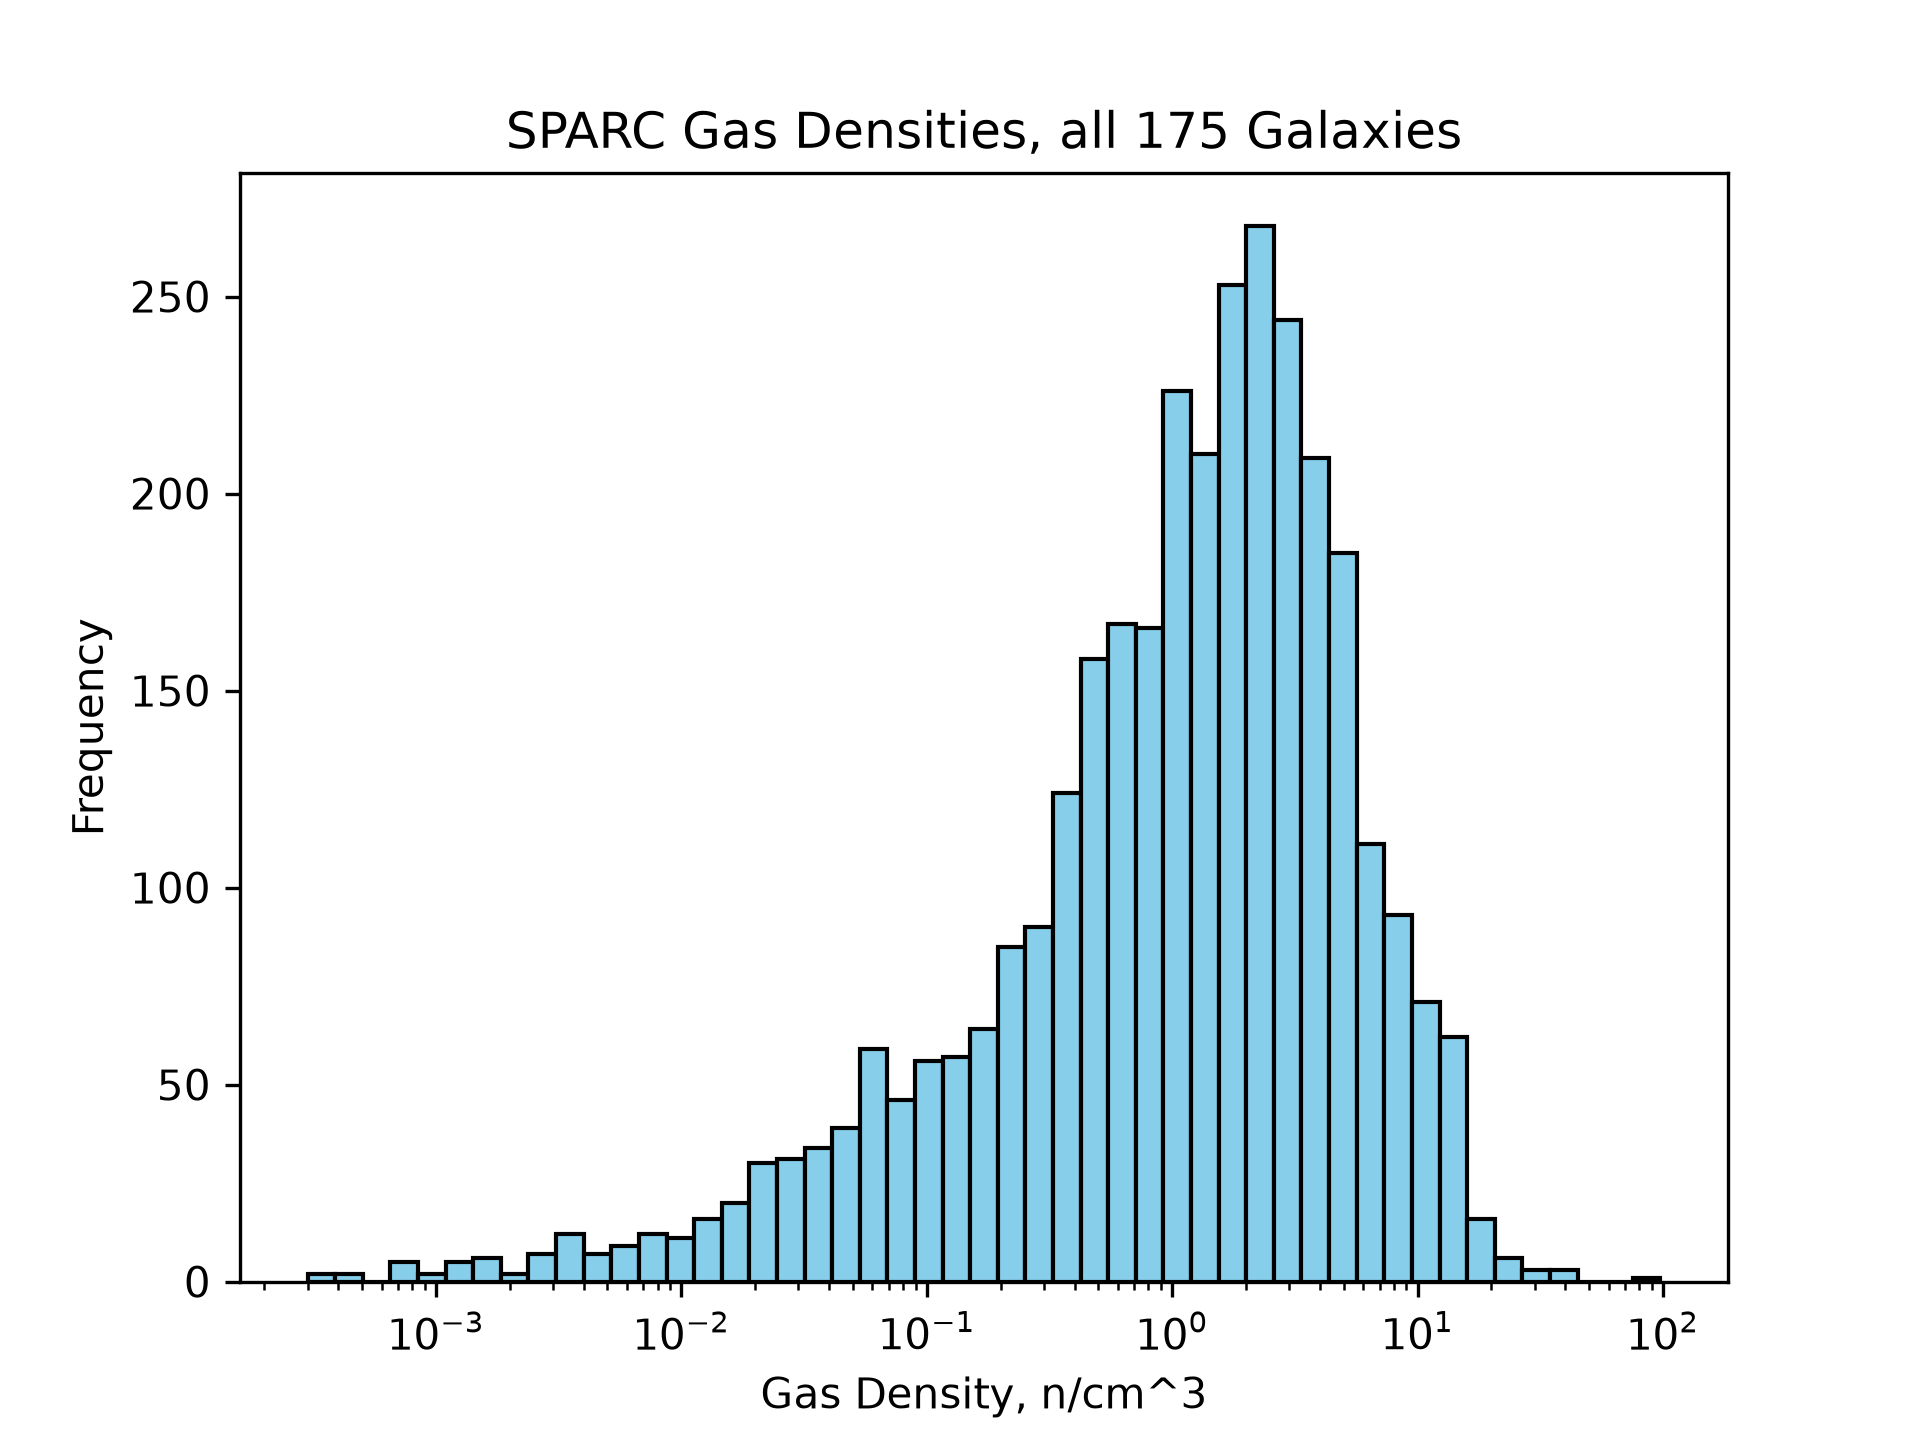
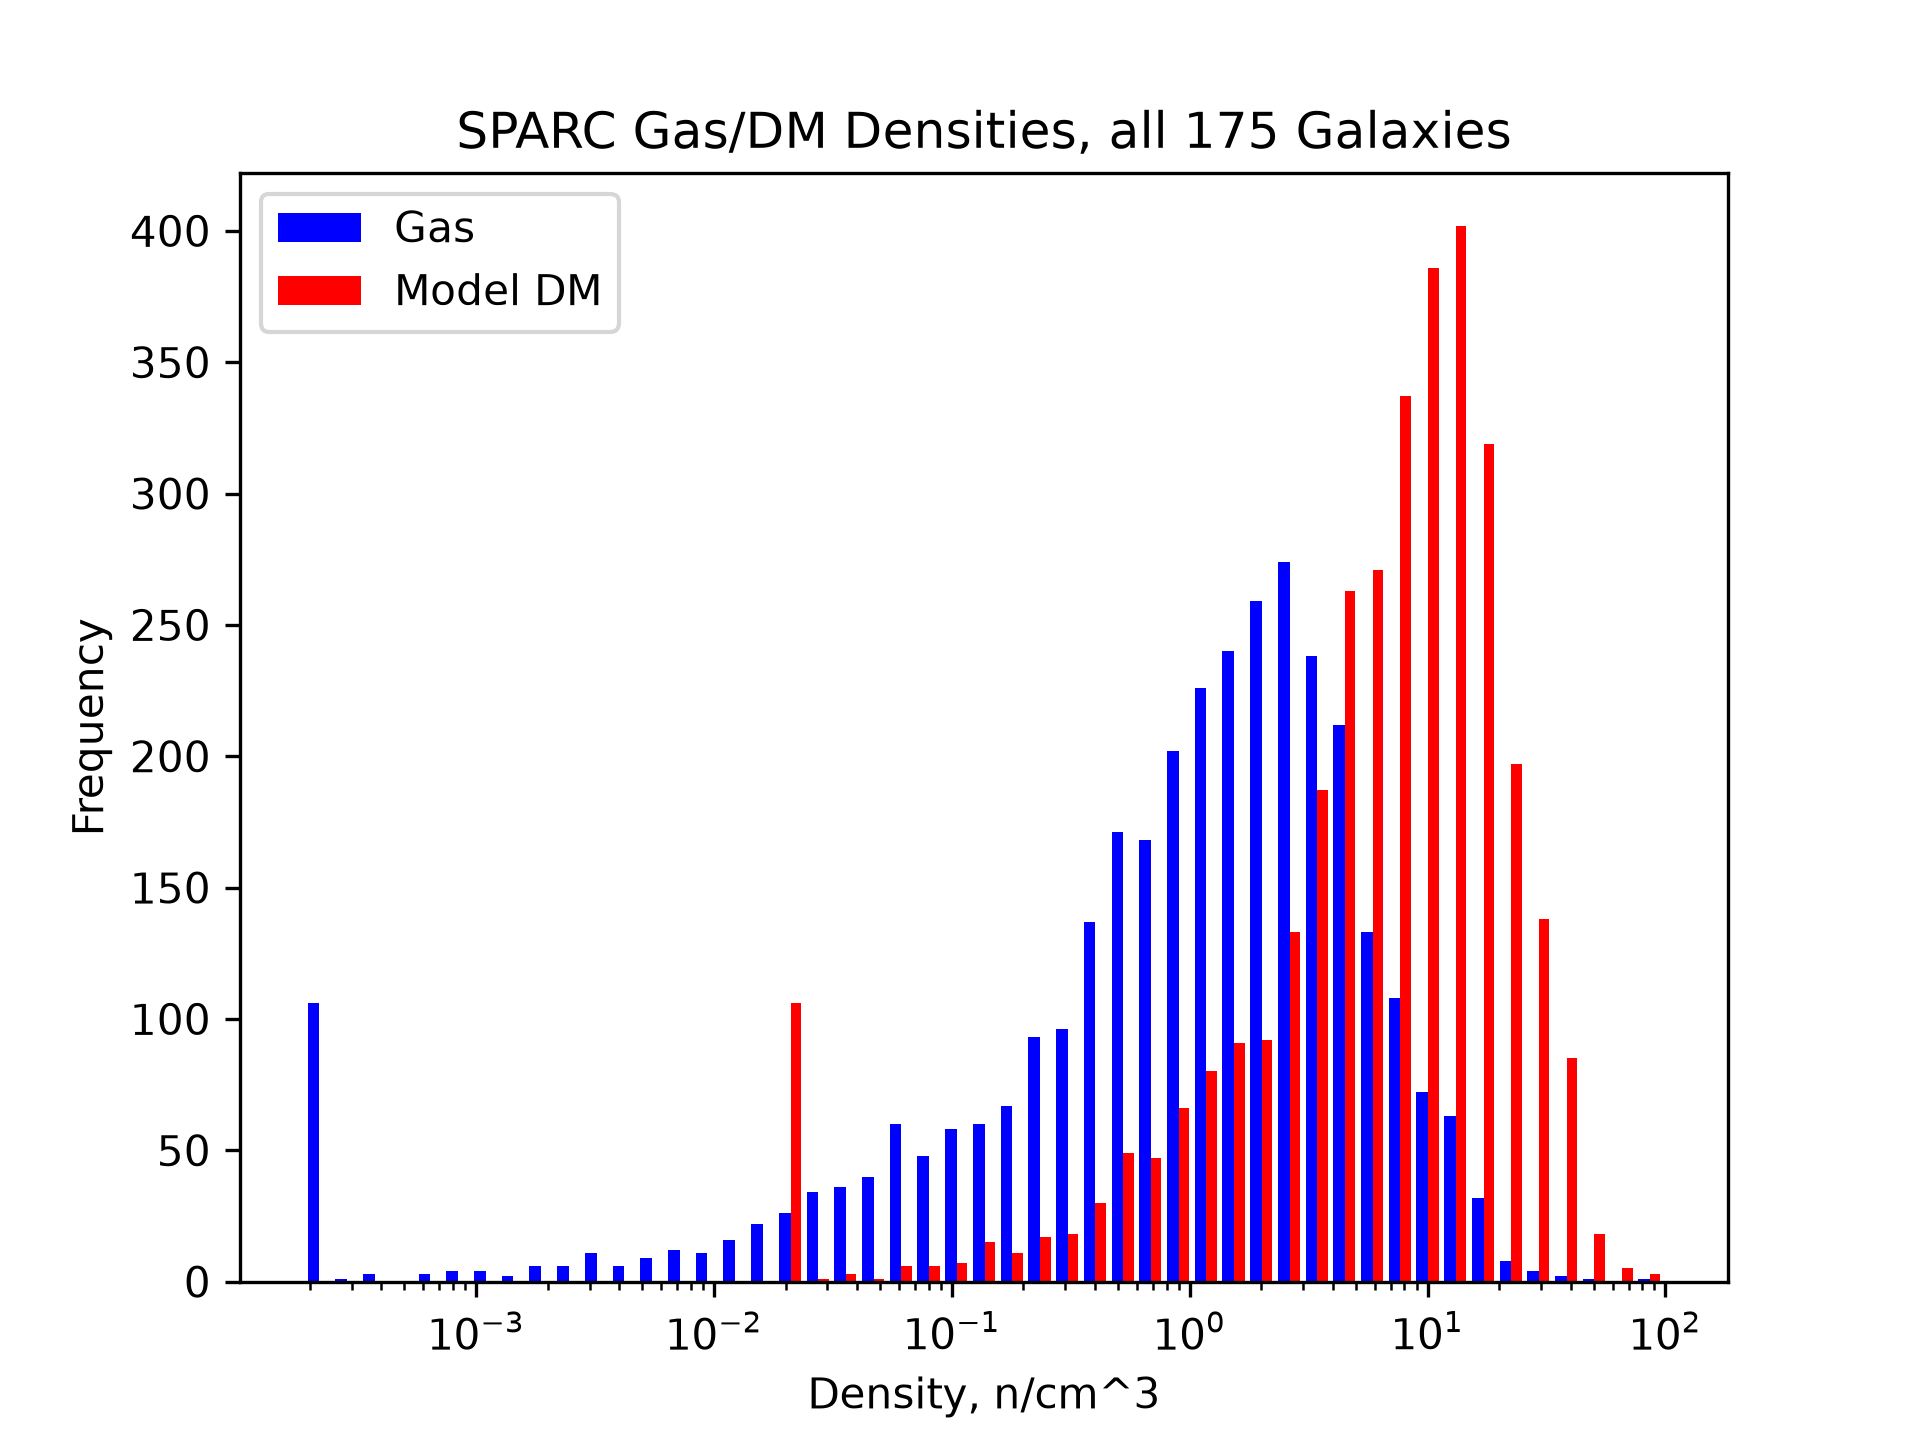
a few more graphs

diff --git a/sparc/sparc_dm.py b/sparc/sparc_dm.py
@@ -115,7 +115,7 @@ def get_sparc_galaxy_scale_height(radius_kpc, R_d):
 
 # model of dark matter - depends on gas density and galaxy thickness at r.
 # takes in arrays of R, vGas, disk scale factor, returns 
-def dm_model(rs, Vgas, R_d, name, densities, densities_r):
+def dm_model(rs, Vgas, R_d, name, densities, dm_densities, densities_r):
     r_prev = 0
     v_prev = 0
     Vdm = []
@@ -153,12 +153,15 @@ def dm_model(rs, Vgas, R_d, name, densities, densities_r):
 
         densities.append(baryon_density_n_cm3)
         densities_r.append(r)
+        dm_density_baryonspercc = 0.0 # initialize
 
         if baryon_density_n_cm3 >= DENSITY_THRESHOLD:
             #average distance between gas particles
             d_avg_gas_m = np.cbrt(1.0 / baryon_density_n_cm3)/100 # cm to m
             dm_per_particle = (P*d_avg_gas_m/c)*(1/c**2) #Power in watts times dist/c is energy, then 1/c^2 is mass in kg
             dm_inShell_kg = num_baryons_shell*dm_per_particle
+            dm_density_baryonspercc = dm_per_particle/PROTON_MASS_KG*baryon_density_n_cm3
+
 
             r_av = (r_m + r_m_prev)/2
             V_dm_km_per_sec = np.sqrt(G_SI*dm_inShell_kg / (r_av + 1e-10))/1000 # divide by 1000 to get km/sec
@@ -167,6 +170,8 @@ def dm_model(rs, Vgas, R_d, name, densities, densities_r):
             Vdm.append(V_dm_km_per_sec)
         else:
             Vdm.append(0.0)
+        
+        dm_densities.append(dm_density_baryonspercc)
         
         mass_encl_prev = mass_encl_kg
         r_m_prev = r_m
@@ -197,7 +202,9 @@ def main():
 
     # keep track of all gas densities calculated, at each R
     densities = []
+    dm_densities = []
     densities_r = []
+
  
     # A note on velocities from stars. We measure luminousity, but want mass. So we use a constant 
     # Upsilon of, say 1/2 for the mass to luminousity ratio for stars. Since velocity is a sqrt affair
@@ -226,7 +233,7 @@ def main():
 
         # Calculate sums and DM proxy
         Vtot_baryons = [g + d + b for g, d, b in zip(Vgas, Vdisk, Vbul)]
-        V_dm = dm_model(R, Vgas, R_d, name, densities, densities_r)
+        V_dm = dm_model(R, Vgas, R_d, name, densities, dm_densities, densities_r)
         
         plt.figure(figsize=(8, 6))
         
@@ -285,30 +292,32 @@ def main():
     # 1. Plot the densities histogram
     # 2. Define logarithmically spaced bins
     # This creates 50 bins between 10^0 (1) and 10^4 (10000)
-    bins = np.logspace(np.log10(min(densities)+ 1e-4), np.log10(max(densities)), 50)
+    bins = np.logspace(np.log10(min(densities) - 1e-5), np.log10(max(densities)), 50)
  
     # 3. Plot the histogram with the custom bins
-    plt.hist(densities, bins=bins, color='skyblue', edgecolor='black')
+    plt.hist([densities, dm_densities], bins=bins, color=['blue', 'red'], label=['Gas', 'Model DM'])
     plt.xscale('log')
 
     # 3. Add labels and title
-    plt.title('SPARC Gas Densities, all 175 Galaxies')
-    plt.xlabel("Gas Density, n/cm^3")
+    plt.title('SPARC Gas/DM Densities, all 175 Galaxies')
+    plt.xlabel("Density, n/cm^3")
     plt.ylabel('Frequency')
+    plt.legend()
     plt.savefig('sparc/gas_densities.png', dpi=300)
 
     # Ok now make an X-Y scatter plot of the DM velocities and radiuses 
     # plot one dot for each densities, densities_r pair, make the densities on the y scale, make the y scale logarithimic
     # make  the x scale linear 
     plt.figure(figsize=(8, 6))
-    plt.scatter(densities_r, densities, color='black', s=10, alpha=0.3)
+    plt.scatter(densities_r, densities, color='blue', s=4, alpha=0.10, label='Gas Density')
+    plt.scatter(densities_r, dm_densities, color='red', s=4, alpha=0.10, label='DM Density')
     plt.xscale('linear')
     plt.yscale('log')
-    plt.title('SPARC Gas Densities, all 175 Galaxies')
+    plt.title('SPARC Gas & DM Model Densities, all 175 Galaxies')
     plt.xlabel('Radius (kpc)')
     plt.ylabel('Density (n/cm^3)')
-    plt.savefig('sparc/gas_densities_scatter.png', dpi=300)
-
+    plt.legend()
+    plt.savefig('sparc/densities_scatter_combined.png', dpi=300)
 
 if __name__ == "__main__":
     main()
